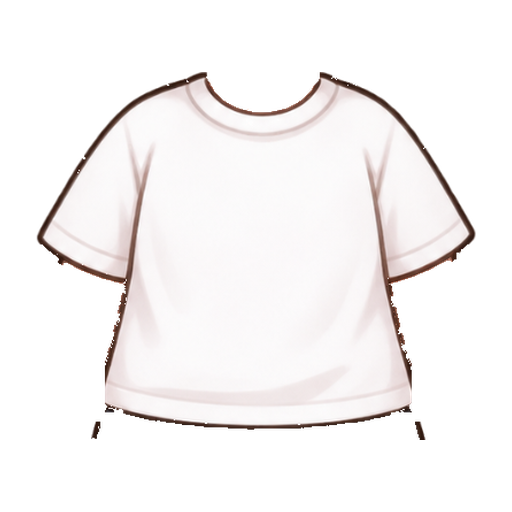
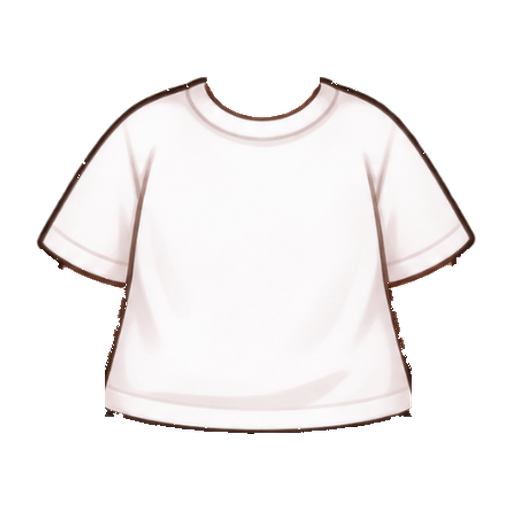
fix: 표지 색 렌더로 찾은 base_top 밑단 아래 옆 조각과 모서리 흰 점, running_shorts 옆트임을 고친다 [S15P31A207-300]
- wide_pants 오른쪽 허리 고리와 base 남자 체형 100 오른쪽 허리 홈: 둘 다 base_top 서기 레이어의 x 112~119·394~402, y 304~319 짙은 조각
  (승인 텍스처에서 뽑을 때 딸려 온 기본 반바지 옆 외곽선)이었다. 본체와 떨어진 밑단 아래 엉덩이 옆 조각을 지운다(drop_side_fragments).
  기본 반바지는 같은 자리에 제 외곽선이 있다.
- base 밑단 모서리 외곽선 띠 안 흰 점(체형 100에서 밝은 U자 홈)을 외곽선 색으로 칠한다(solid_hem_corner).
- running_shorts 옆트임: 처진 앞판 끝과 밑단 사이 5~7px 트임을 천 색으로 메워 밑단을 잇는다(close_hem_slit).

Changed region(s): [[0.0625, 0.125, 0.9375, 0.8438], [0.8125, 0.8125, 0.8438, 0.875], [0.1562, 0.8438, 0.1875, 0.875]]

diff --git a/android/core/avatar/tools/outfit-pipeline/outfit_pipeline/stand_fix.py b/android/core/avatar/tools/outfit-pipeline/outfit_pipeline/stand_fix.py
@@ -82,6 +82,9 @@ def fix_stand(outfits_dir: Path, raw_dir: Path, masks_dir: Path) -> dict[str, in
         [(key, line_collar) for key in COLLAR_KEYS]
         + [(key, solid_side_outline) for key in short]
         + [(key, close_side_skin) for key in SIDE_SKIN_KEYS]
+        + [(key, drop_side_fragments) for key in spec.LEGACY_KEYS["TOP"]]
+        + [(key, solid_hem_corner) for key in short]
+        + [(key, close_hem_slit) for key in SLIT_KEYS]
         + [(key, partial(drop_halo, light=HALO_LIGHT_BY_KEY.get(key, HALO_LIGHT))) for key in spec.LEGACY_KEYS["SHOES"]]
         + [(key, cover_feet) for key in spec.LEGACY_KEYS["SHOES"]]
     )
@@ -187,4 +190,91 @@ def close_side_skin(layer: Image.Image, body: Image.Image) -> tuple[Image.Image,
                     array[y, x] = cloth
                     array[y, x, 3] = 255
                     changed += 1
+    return Image.fromarray(array, "RGBA"), changed
+
+
+# 상의 밑단 아래 옆 조각(판정 round4: wide_pants 오른쪽 허리 고리, base 남자 체형 100 오른쪽 허리 홈). 표지 색 렌더로 보니 두 획 모두
+# base_top 서기 레이어의 x 112~119·394~402, y 304~319 짙은 세로 조각이었다. 승인 기본 텍스처에서 뽑을 때 기본 반바지 옆 외곽선이 상의 칸
+# (y 319까지)에 걸려 상의 레이어로 딸려 왔고, 기본 반바지는 같은 자리에 제 외곽선이 있어 그 조합에서만 가려졌다. 다른 하의와 입으면 허리 옆에
+# 떠 있는 고리·홈으로 보였다. 상의 본체와 떨어진 조각 가운데 밑단 아래(y [FRAGMENT_TOP] 이상) 옆 칸에만 있는 것을 지운다.
+FRAGMENT_TOP = 296
+FRAGMENT_SIDES = ((0, 150), (362, 512))  # spec.STAND_HIP_CUTS와 같은 엉덩이 옆 칸 x
+FRAGMENT_MAX = 400
+
+
+def drop_side_fragments(layer: Image.Image, _body: Image.Image | None = None) -> tuple[Image.Image, int]:
+    """서기 상의 레이어에서 본체와 떨어진 밑단 아래 옆 조각을 지운다. (레이어, 지운 픽셀 수)."""
+    from outfit_pipeline.render_check import _components8
+
+    array = np.array(layer.convert("RGBA"))
+    pieces = sorted(_components8(array[..., 3] > 0), key=len, reverse=True)
+    changed = 0
+    for piece in pieces[1:]:
+        ys, xs = piece[:, 0], piece[:, 1]
+        side = any(x0 <= xs.min() and xs.max() < x1 for x0, x1 in FRAGMENT_SIDES)
+        if len(piece) <= FRAGMENT_MAX and ys.min() >= FRAGMENT_TOP and side:
+            array[ys, xs] = 0
+            changed += len(piece)
+    return Image.fromarray(array, "RGBA"), changed
+
+
+# running_shorts 옆트임 너덜거림(판정 round2~4). 표지 색 렌더로 보니 하의 레이어 자체의 그림이었다: 밑단 옆(아틀라스 y 392~404)에서 앞판 끝이
+# 따로 떨어져 아래로 처지고(x 100~109·406~412) 그 사이 5~7px이 비어 맨다리 외곽선과 함께 들쭉날쭉한 홈으로 보였다. 그 행마다 옆 칸에서
+# 맨 바깥 천과 안쪽 천 사이 [SLIT_MAX]px 이하 빈 곳을 이웃 천 색(행 가운데값)으로 메워 밑단을 한 줄로 잇는다.
+SLIT_KEYS = ("bottom_running_shorts",)
+SLIT_ROWS = (388, 408)
+SLIT_SIDES = ((90, 130), (384, 424))
+SLIT_MAX = 10
+
+
+def close_hem_slit(layer: Image.Image, _body: Image.Image | None = None) -> tuple[Image.Image, int]:
+    """하의 서기 레이어 밑단 옆트임의 빈 곳을 메운다. (레이어, 메운 픽셀 수)."""
+    array = np.array(layer.convert("RGBA"))
+    solid = array[..., 3] >= 128
+    changed = 0
+    for x0, x1 in SLIT_SIDES:
+        for y in range(*SLIT_ROWS):
+            xs = np.nonzero(solid[y, x0:x1])[0] + x0
+            if len(xs) < 2:
+                continue
+            gap = [x for x in range(xs.min(), xs.max()) if not solid[y, x]]
+            if not gap or len(gap) > SLIT_MAX:
+                continue
+            color = np.median(array[y, xs][:, :3], axis=0).round().astype(np.uint8)
+            for x in gap:
+                array[y, x, :3] = color
+                array[y, x, 3] = 255
+            changed += len(gap)
+    return Image.fromarray(array, "RGBA"), changed
+
+
+# 밑단 모서리 외곽선 안의 흰 점(판정 round4: base 남자 체형 100 오른쪽 허리 홈 옆 밝은 「U」 조각). 표지 색 렌더로 보니 base_top 밑단 모서리
+# 짙은 외곽선 띠(아틀라스 x 380~389, y 288~296) 안에 박힌 흰 천 픽셀이었다. 체형 100에서 늘면 외곽선 사이 밝은 홈으로 보였다. 옆 칸(엉덩이 옆
+# x)의 밑단 행에서 4방향 이웃 가운데 셋 이상이 짙은 상의 픽셀인 밝은 픽셀을 그 이웃 색으로 칠한다(되풀이: 붙은 점 두세 개).
+HEM_SPECK_ROWS = (280, 300)
+
+
+def solid_hem_corner(layer: Image.Image, _body: Image.Image | None = None) -> tuple[Image.Image, int]:
+    """반팔·민소매 서기 상의 밑단 모서리 외곽선 안의 밝은 점을 외곽선 색으로 칠한다. (레이어, 칠한 픽셀 수)."""
+    array = np.array(layer.convert("RGBA"))
+    y0, y1 = HEM_SPECK_ROWS
+    changed = 0
+    for _ in range(3):
+        solid = array[..., 3] >= 128
+        lum = array[..., :3].astype(int).mean(axis=-1)
+        dark = solid & (lum < SIDE_DARK)
+        paint = []
+        for x0, x1 in FRAGMENT_SIDES:
+            for y in range(y0, y1):
+                for x in range(max(x0, 1), min(x1, array.shape[1] - 1)):
+                    if not solid[y, x] or lum[y, x] < SIDE_DARK + SIDE_LIGHT:
+                        continue
+                    around = [(y + dy, x + dx) for dy, dx in ((-1, 0), (1, 0), (0, -1), (0, 1)) if dark[y + dy, x + dx]]
+                    if len(around) >= 3:
+                        paint.append((y, x, np.mean([array[p][:3] for p in around], axis=0)))
+        if not paint:
+            break
+        for y, x, color in paint:
+            array[y, x, :3] = color.round().astype(np.uint8)
+        changed += len(paint)
     return Image.fromarray(array, "RGBA"), changed

diff --git a/android/core/avatar/tools/outfit-pipeline/tests/test_stand_fix.py b/android/core/avatar/tools/outfit-pipeline/tests/test_stand_fix.py
@@ -165,3 +165,41 @@ def test_close_side_skin_covers_bare_strips_beside_and_below_a_sleeveless_top() 
     assert array[250, 112, 3] == 0  # 몸통 옆 외곽선은 맨몸 그대로(상의 옆 외곽선)
     assert array[293, 150, 3] == 255 and array[293, 150, :3].tolist() == [120, 200, 170]  # 밑단 아래 하의 허리 위 맨살
     assert array[300, 150, 3] == 0  # 하의 허리(y 296) 아래는 그대로
+
+
+def test_drop_side_fragments_removes_detached_pieces_below_the_hem_beside_the_hips() -> None:
+    from outfit_pipeline.stand_fix import drop_side_fragments
+
+    layer = np.zeros((768, 512, 4), np.uint8)
+    layer[100:296, 150:362] = (250, 250, 250, 255)  # 상의 본체
+    layer[304:320, 112:120] = (40, 30, 25, 255)  # 밑단 아래 옆 조각(기본 반바지 옆 외곽선)
+    layer[300:320, 200:260] = (250, 250, 250, 255)  # 밑단 아래 가운데(본체와 떨어졌지만 옆 칸 밖)
+    out, count = drop_side_fragments(Image.fromarray(layer, "RGBA"))
+    array = np.array(out)
+    assert count == 16 * 8
+    assert array[310, 115, 3] == 0 and array[310, 230, 3] == 255 and array[200, 200, 3] == 255
+
+
+def test_close_hem_slit_joins_the_hanging_flap_to_the_hem() -> None:
+    from outfit_pipeline.stand_fix import close_hem_slit
+
+    layer = np.zeros((768, 512, 4), np.uint8)
+    layer[300:404, 116:300] = (50, 50, 55, 255)  # 반바지
+    layer[392:404, 100:110] = (50, 50, 55, 255)  # 처진 앞판 끝
+    layer[392:404, 110:116] = 0  # 그 사이 트임
+    out, count = close_hem_slit(Image.fromarray(layer, "RGBA"))
+    array = np.array(out)
+    assert count > 0 and (array[396, 110:116, 3] == 255).all()
+
+
+def test_solid_hem_corner_paints_light_specks_inside_the_hem_outline() -> None:
+    from outfit_pipeline.stand_fix import solid_hem_corner
+
+    layer = np.zeros((768, 512, 4), np.uint8)
+    layer[200:296, 150:400] = (250, 250, 250, 255)
+    layer[288:296, 380:392] = (50, 40, 35, 255)  # 밑단 모서리 외곽선 띠
+    layer[292, 385] = (250, 250, 250, 255)  # 띠 안 흰 점
+    out, count = solid_hem_corner(Image.fromarray(layer, "RGBA"))
+    array = np.array(out)
+    assert count == 1 and array[292, 385, :3].mean() < 100
+    assert array[250, 300, :3].tolist() == [250, 250, 250]

diff --git a/android/core/avatar/OUTFIT_SPEC.md b/android/core/avatar/OUTFIT_SPEC.md
@@ -53,6 +53,8 @@ riv 네 파일(`res/raw`, 승인본 SHA 고정, 읽기만)의 아트보드는 80
 | 칼라·후드 안 (판정 round1 B) | 서기 맨몸 아틀라스는 얼굴 레이어 위에 그려져 얼굴 목은 아틀라스가 빈 곳(어깨선 U자 안)으로만 보인다. 생성 단계가 긴소매(finisher, hoodie, cherry_vest, windbreaker)의 목·가슴 위 칸(x 196~316, y 0~48)을 피부 판정 칸으로 써서 후드 안감·칼라를 직사각형으로 지웠고, 그 밑 맨몸 가슴 피부가 곧은 모서리의 피부 사각형으로 비쳤다. 상의 레이어 위 60행에서 같은 행 왼쪽·오른쪽에 천이 있는 투명 픽셀을 메우고 목 기둥(x 217~295) 가운데 맨몸도 빈 곳만 비워 둔다. 메우는 색은 둘레의 밝은 천(외곽선 제외)에서 매끄럽게 이어지는 안감 색(라플라스 보간)이고, 둘레에서 멀수록 0.86배, 목 구멍 바로 옆 3px은 0.9배까지 부드럽게 어둡다(`holes.line_collar`, `stand-fix`. 판정 round3: 이웃 천 색을 행·열로 번진 `fill_collar`는 세로 줄무늬 블록, 목 둘레 짙은 네모 단차, 남은 안감 조각과의 곧은 경계가 보였다) |
 | 신발 맨발 덮기 (판정 round3) | 서기 맨몸 아틀라스는 신발 밑에 맨발(종 모양 실루엣과 짙은 외곽선)이 있다. 신발이 그보다 좁으면 신발 옆으로 맨발 피부(살구색)와 외곽선이 신발보다 큰 테두리·밝은 띠로 보였다(lime_runner, ankle_boots, basic_runner). 두 발 칸에서 신발 가로 폭이 그 행 맨발 폭의 60% 이상인 첫 행부터 아래로, 그 행 바로 위 다리 폭 밖으로 나온 불투명 맨발을 신발로 덮는다: 바깥 가장자리 2px의 맨발 외곽선은 맨몸 그대로(신발 외곽선), 나머지는 이웃 신발 천 색을 그늘 없이(그늘을 넣으면 lime_runner 바깥 아래가 짙은 쐐기로 보였다, 판정 round4) 이어 칠한다(`feet.cover_feet`, `stand-fix`). 그 전에 행마다 신발 바깥 끝 6px 안의 첫 짙은 외곽선(밝기 90 미만)보다 바깥에 있는, 외곽선보다 40(basic_runner는 30) 넘게 밝고 200보다 어두운 회색 띠(생성 그림의 그림자, basic_runner 옆 띠)를 지운다. 창은 10px이고 알파 64 미만 가장자리는 띠에 넣되 덜 투명한 띠 픽셀이 2개 이상일 때만 지운다(판정 round4: 6px 창으로 아래쪽만 지워 뒤꿈치 옆 회색 덧판 위쪽이 귀 모양 탭으로 남았다, `feet.drop_halo`). 옆 가장자리에 원본에 없던 4px 넘는 계단이 없는지 시험한다 |
 | 민소매 몸통 옆 맨살 (판정 round4) | 표지 색 렌더(텍셀마다 (층, x, y)를 색으로 그려 렌더 픽셀의 출처를 읽음)로 singlet 밑단 옆 짧은 짙은 획과 밝은 점이 맨몸 아틀라스 x 100~124·376~392, y 256~295의 몸통 옆 외곽선과 그 안쪽 맨살 띠, 밑단과 하의 허리 사이 맨살임을 확인했다. singlet 서기 레이어는 행마다(y 200~295) 상의 옆 가장자리 바깥의 맨살(몸통 옆 외곽선 앞까지 6px 이하)을 상의 천 색으로, 밑단 아래 하의 허리(y 296)까지의 맨몸(빈 곳에서 4px 안의 몸통 옆 외곽선 제외)을 그 옆 칸 밝은 천 가운데값으로 덮는다(`stand_fix.close_side_skin`, `stand-fix`) |
+| 상의 밑단 아래 옆 조각·모서리 흰 점 (판정 round4) | 서기 상의 레이어에는 본체와 떨어진 밑단 아래(y 296 이상) 엉덩이 옆 칸(x 150 미만·362 이상) 조각이 없다. base_top의 x 112~119·394~402, y 304~319 조각(승인 텍스처에서 뽑을 때 딸려 온 기본 반바지 옆 외곽선)이 다른 하의와 입으면 허리 옆 고리·홈으로 보였다(wide_pants 허리 고리, base 체형 100 허리 홈, `stand_fix.drop_side_fragments`). 반팔·민소매는 밑단 모서리(y 280~299) 짙은 외곽선 띠 안에 4방향 이웃 셋 이상이 짙은 밝은 점이 없다(`stand_fix.solid_hem_corner`) |
+| running_shorts 옆트임 (판정 round2~4) | 밑단 옆(y 388~407, x 90~129·384~423) 행마다 맨 바깥 천과 안쪽 천 사이 10px 이하 빈 곳(처진 앞판 끝과 밑단 사이 트임)을 그 행 천 가운데값으로 메운다(`stand_fix.close_hem_slit`) |
 | 반팔·민소매 몸통 옆 외곽선 (판정 round3) | 반팔·민소매(`maleTopSurface` 1) 서기 레이어는 소매 끝 아래 몸통 옆(y 185~301) 행마다 바깥에서 처음 만나는 상의 가장자리 6px 안에서, 안쪽 짙은 옆 외곽선(밝기 110 미만)보다 바깥에 박힌 밝은 천 점(외곽선보다 60 넘게 밝음)이 없다. 체형 100에서 몸통 옆이 늘면 짙은 외곽선 사이 흰 점이 사다리 획으로 보였다(base s100 겨드랑이 아래). `stand-fix`가 그 외곽선 색으로 칠한다(`stand_fix.solid_side_outline`) |
 | 남자 서기 긴소매 이음매 (판정 round3) | 남자 서기 riv의 긴소매 메시(Image 「Long sleeve wardrobe top」)는 팔 띠와 몸통 띠가 이음매 열에 같은 (u, v)·무게의 꼭짓점을 따로 둔다. 겨드랑이 아래(v 0.26~0.35) 몸통 쪽 꼭짓점이 0.1~1.2 단위 안쪽에 있어(바탕 자세와 체형 애니메이션 x 키) 소매와 몸통 사이로 배경이 가는 세로 줄로 비쳤다. 앱은 읽은 riv 바이트에서 몸통 쪽 값(float32 100개)을 짝인 팔 쪽 값으로 바꾼다(`RivSleeveSeam`, 파일은 승인본 그대로, 표는 `outfit_pipeline/seam.py`의 `copy_pairs`). 반팔·민소매 표면 메시(「Existing wardrobe top」)는 몸통 띠 바깥 끝이 팔 띠 안쪽 끝과 바탕 자세에서 0.5~1 단위 겹치는데, 체형 x 키(medium·fuller)에서 오른쪽 아래 행의 겹침이 0 아래로 줄어 base·singlet 남자 체형 100 겨드랑이 아래에 가는 틈이 생겼다. 겹침이 바탕보다 줄어든 키 24개만 팔 쪽 키 + 바탕 겹침으로 바꾼다(`OVERLAP_TARGETS`, `seam.overlap_patch`). 판정 렌더는 Rive 원본에서 같은 값을 바꾼다(`close_seam_rml`, `keep_overlap_rml`) |
 | 달리기 엉덩이 잇기·다리 실루엣 (판정 round1~3 C) | 달리기 riv의 Image 「Cloth textured hip connection」(타원 메시)은 run_leg 텍스처 가운데 조각(x 88~168, y 160~208)을 써서 엉덩이 뒷면에 외곽선이 없었고 같은 칸을 앞 다리 메시도 허벅지에 쓴다. 앱은 읽은 riv 바이트에서 그 꼭짓점 v만 136/768만큼 위로 옮겨(`RivHipConnection`, 파일은 승인본 그대로) 다리 메시가 화면에 쓰지 않는 칸(y 24~72)을 쓰게 하고, 판정 렌더는 Rive 원본의 같은 꼭짓점을 옮긴다(`retarget_rml`). 다리 메시는 맨몸 다리 실루엣 모양이라(16x16 칸과 픽셀 좌표 부호 렌더로 실측: 텍스처 행마다 화면 뒷면 경계가 맨몸 다리 왼쪽 끝과 같다) 하의가 맨몸 다리보다 넓은 곳은 화면에 나오지 않는다. 그래서 하의·맨몸 달리기 다리 레이어(`hip.finish_run_leg`)는 (1) 엉덩이 잇기 칸에 원래 조각을 옮기고 타원의 등 아래 사분면 바깥((x/rx)²+(y/ry)² > 0.42)을 투명하게 깎아(화면 블록의 등 아래 모서리를 없앤다, 깎은 경계에 외곽선을 그리면 옷 안쪽 호로 떠 보였다) 등 쪽 둘레(150~250도) 4px만 외곽선으로 칠하고, (2) 다리 텍스처 y 170~265의 뒷면을 x 2→12 사분 타원 곡선으로 깎아(곧은 뒷면이 y 264에서 10px 꺾이던 모서리) 새 가장자리 5px을 맨몸 외곽선 색으로 칠하고, (3) 하의는 맨몸 다리 외곽선(실루엣 가장자리 7px 안 짙은 픽셀) 위 하의 픽셀을 그 외곽선 색으로 바꾼다(wide·jogger 외곽선, leggings 무릎 비침). 16번 구멍 검사는 엉덩이 잇기 칸을, 17번 달리기 다리 외곽선 기준은 그 칸과 깎은 뒷면(y 170~265, x < 24)을 뺀다 |
